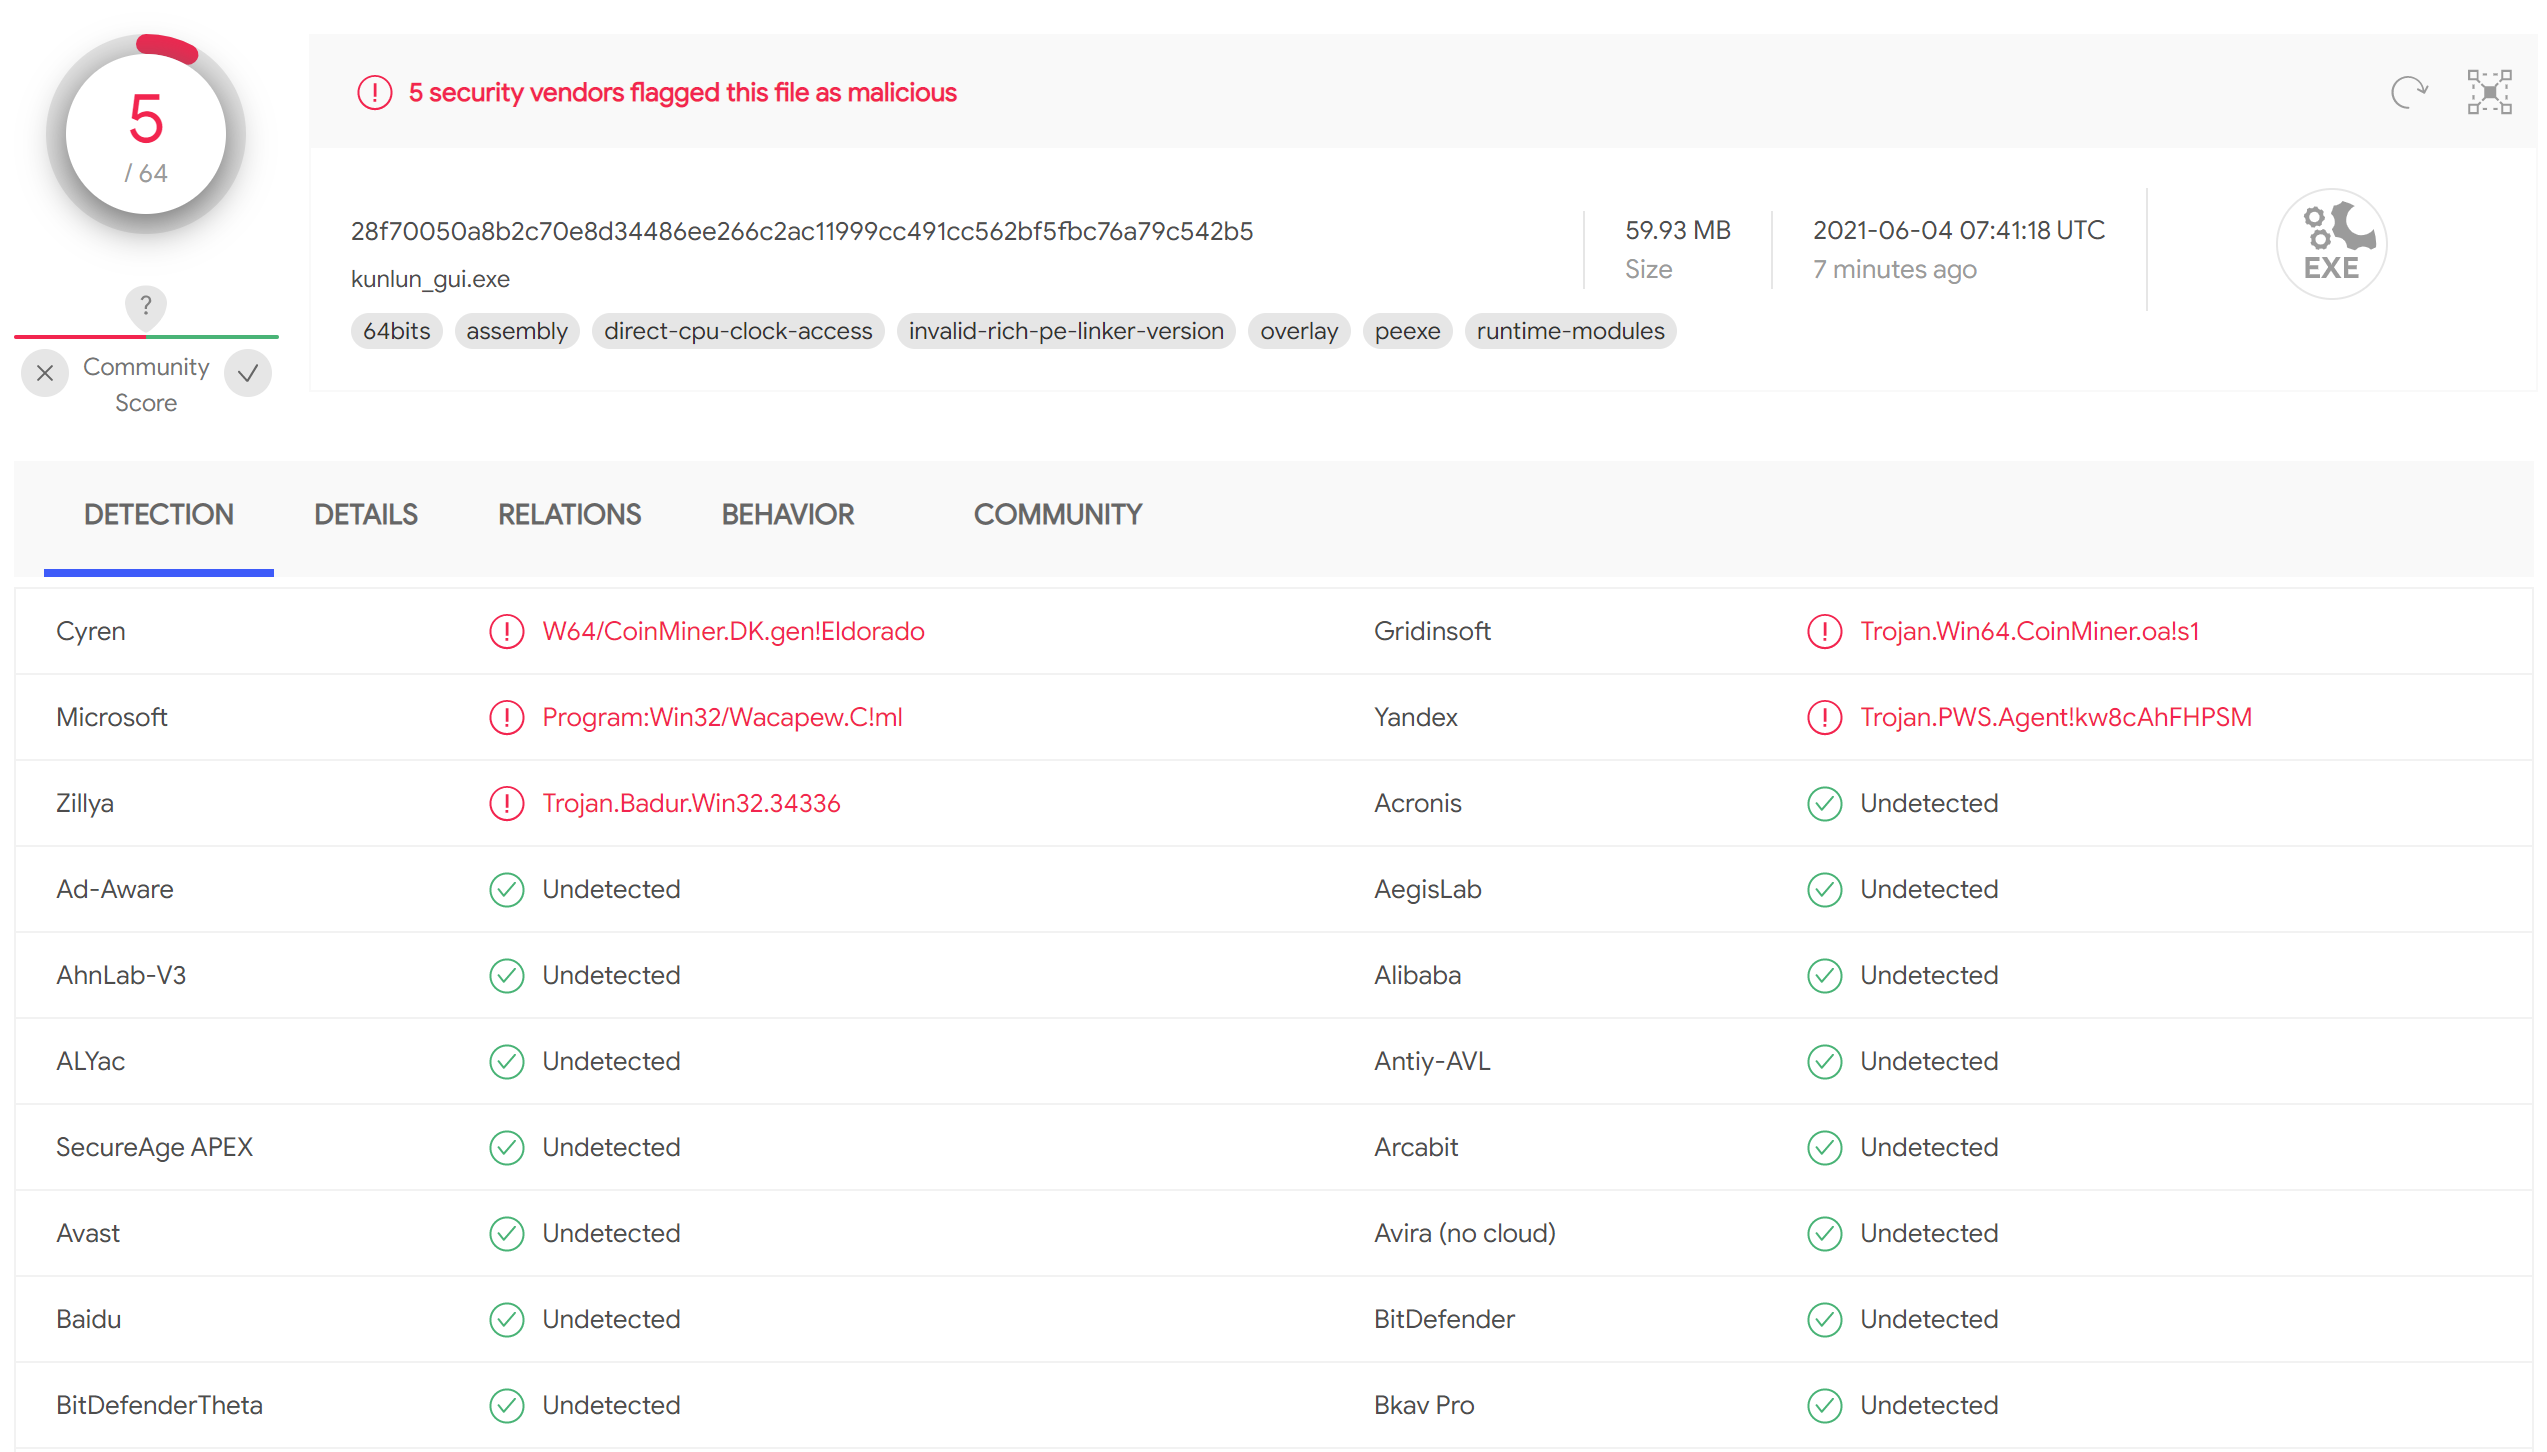
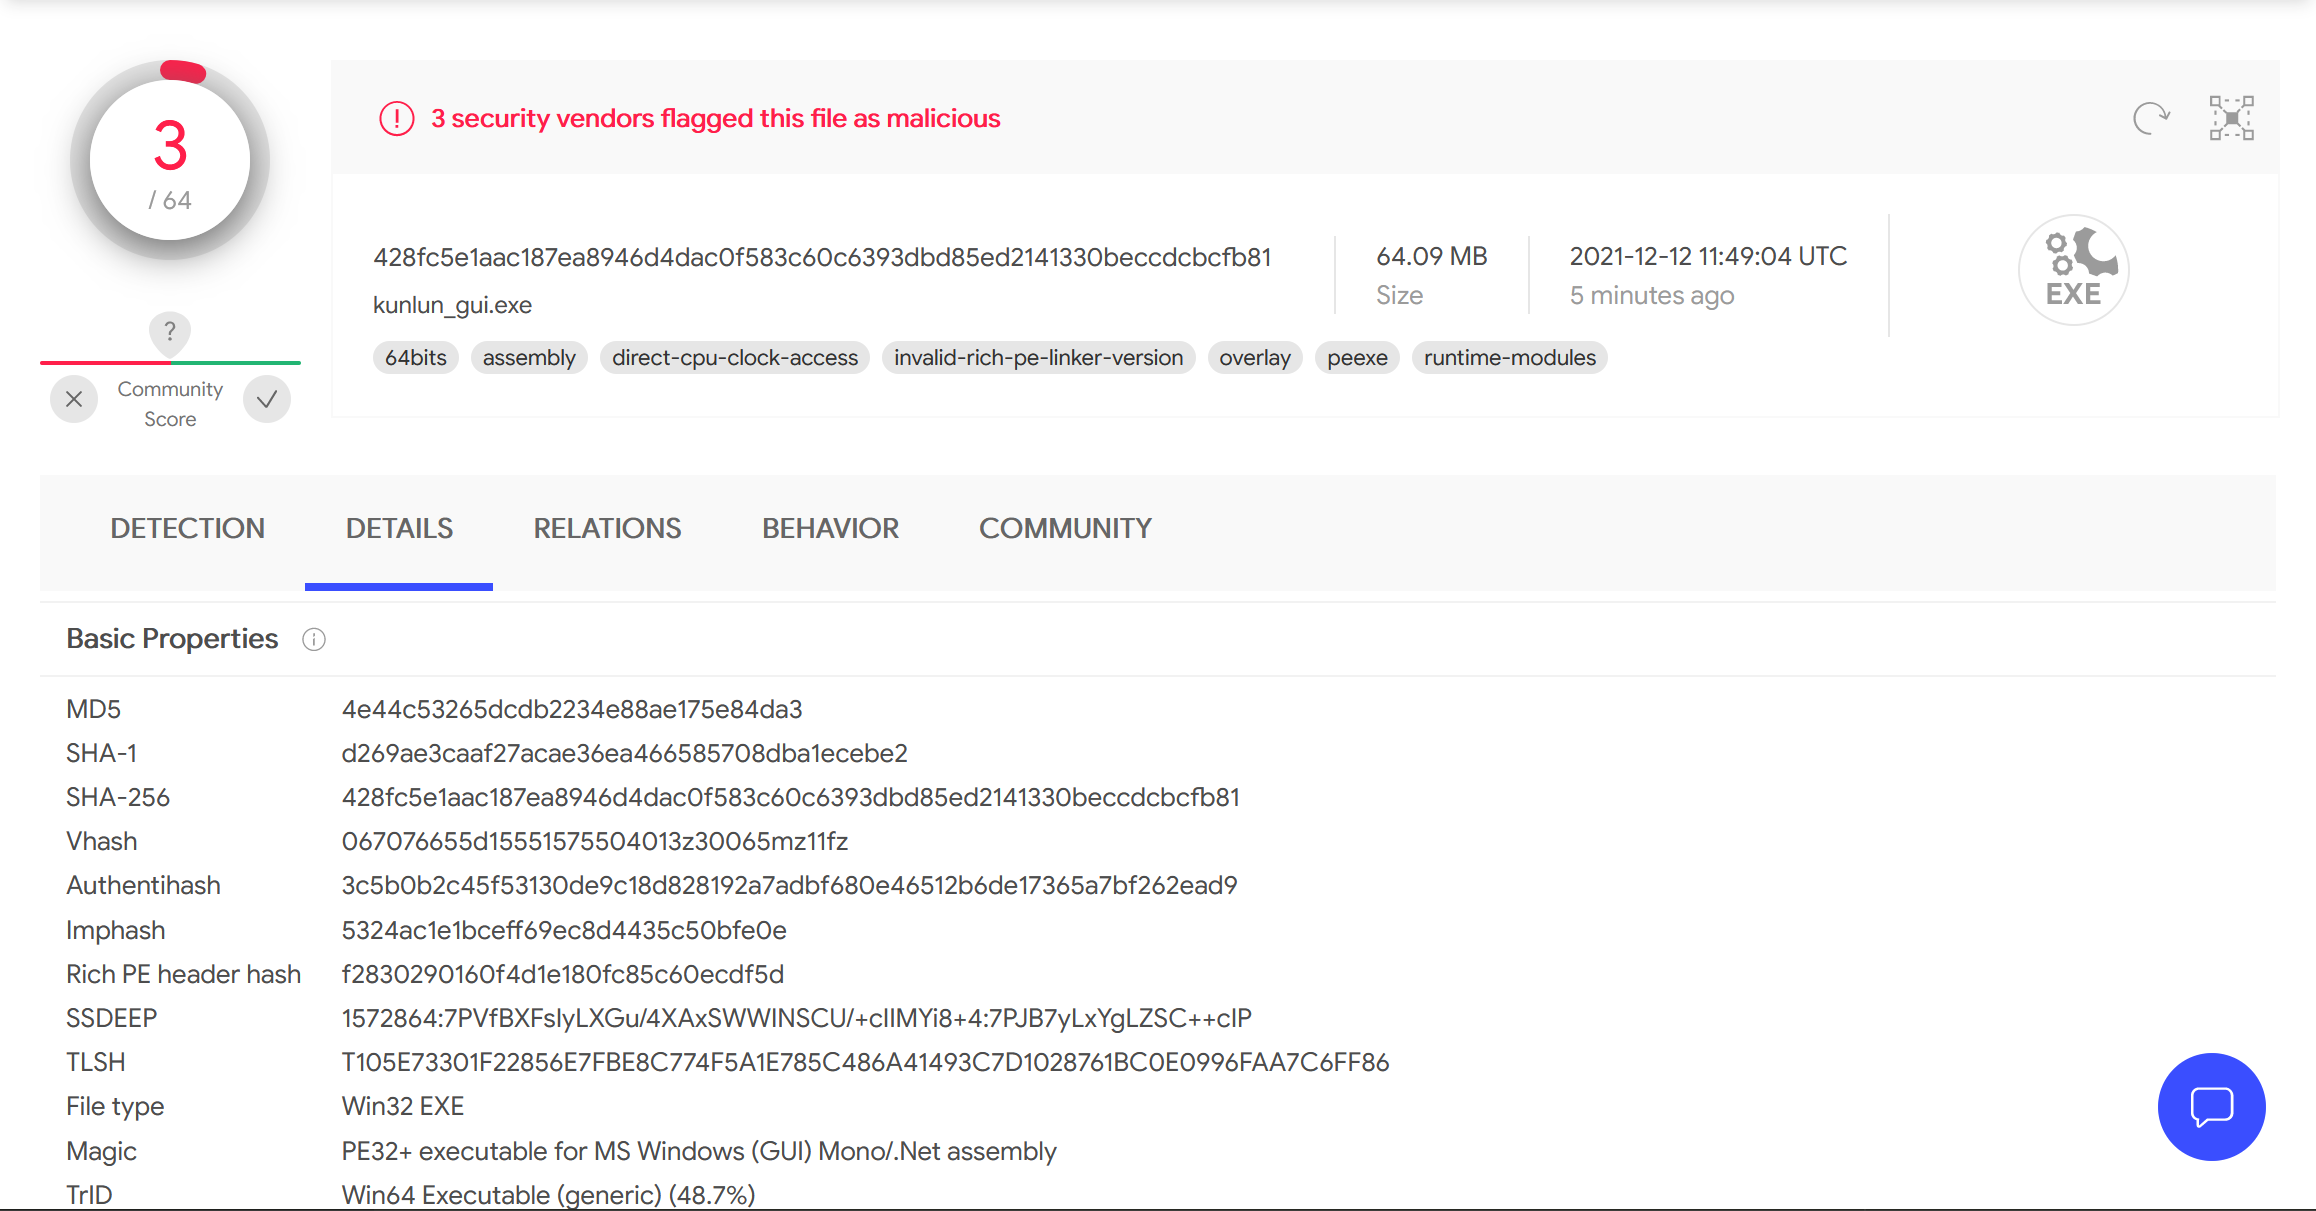
适配了2.6.3版本

diff --git a/README.md b/README.md
@@ -8,19 +8,19 @@
 ## 使用前说明
 **程序是闭源的，而且目前并不打算开源**。下图是VirusTotal的扫描结果，**请谨慎使用**。
 
-https://www.virustotal.com/gui/file/28f70050a8b2c70e8d34486ee266c2ac11999cc491cc562bf5fbc76a79c542b5/detection
+https://www.virustotal.com/gui/file/428fc5e1aac187ea8946d4dac0f583c60c6393dbd85ed2141330beccdcbcfb81/detection
 
 ![](./image/virustotal_scanresult.png)
 
 程序Hash信息如下:
 ``` bash
 $ sha256sum kunlun_gui.exe
-28f70050a8b2c70e8d34486ee266c2ac11999cc491cc562bf5fbc76a79c542b5  kunlun_gui.exe
+428fc5e1aac187ea8946d4dac0f583c60c6393dbd85ed2141330beccdcbcfb81  kunlun_gui.exe
 ```
 
 ## 使用说明
-在 https://github.com/mark0smith/Kunlun-M-GUI/releases 下载 `kunlun_gui.exe`
-，将其放在<del>`kunlun.py`文件所在的<del>文件夹中运行即可。
+在 https://github.com/mark0smith/Kunlun-M-GUI/releases 下载 `kunlun_gui.exe`。
+<del>，将其放在`kunlun.py`文件所在的<del>文件夹中运行即可。
 
 点击程序图标即可运行，程序运行缓慢，请稍后。
 

diff --git a/changelog.md b/changelog.md
@@ -36,3 +36,10 @@ $ sha256sum kunlun_gui.exe
 - 菜单栏增加了窗口前置、黑白主题的设置
 ![](./image/menu_settings.png)
 - **增加了对初始环境的检测，能实现直接运行，不再依赖Kunlun-M文件夹**。
+
+## 2021-12-12 19:40:27
+``` bash
+sha256sum kunlun_gui.exe
+428fc5e1aac187ea8946d4dac0f583c60c6393dbd85ed2141330beccdcbcfb81  kunlun_gui.exe
+```
+- 适配了 KunLun-M 的 2.6.3 版本，只是适配了。🤣
